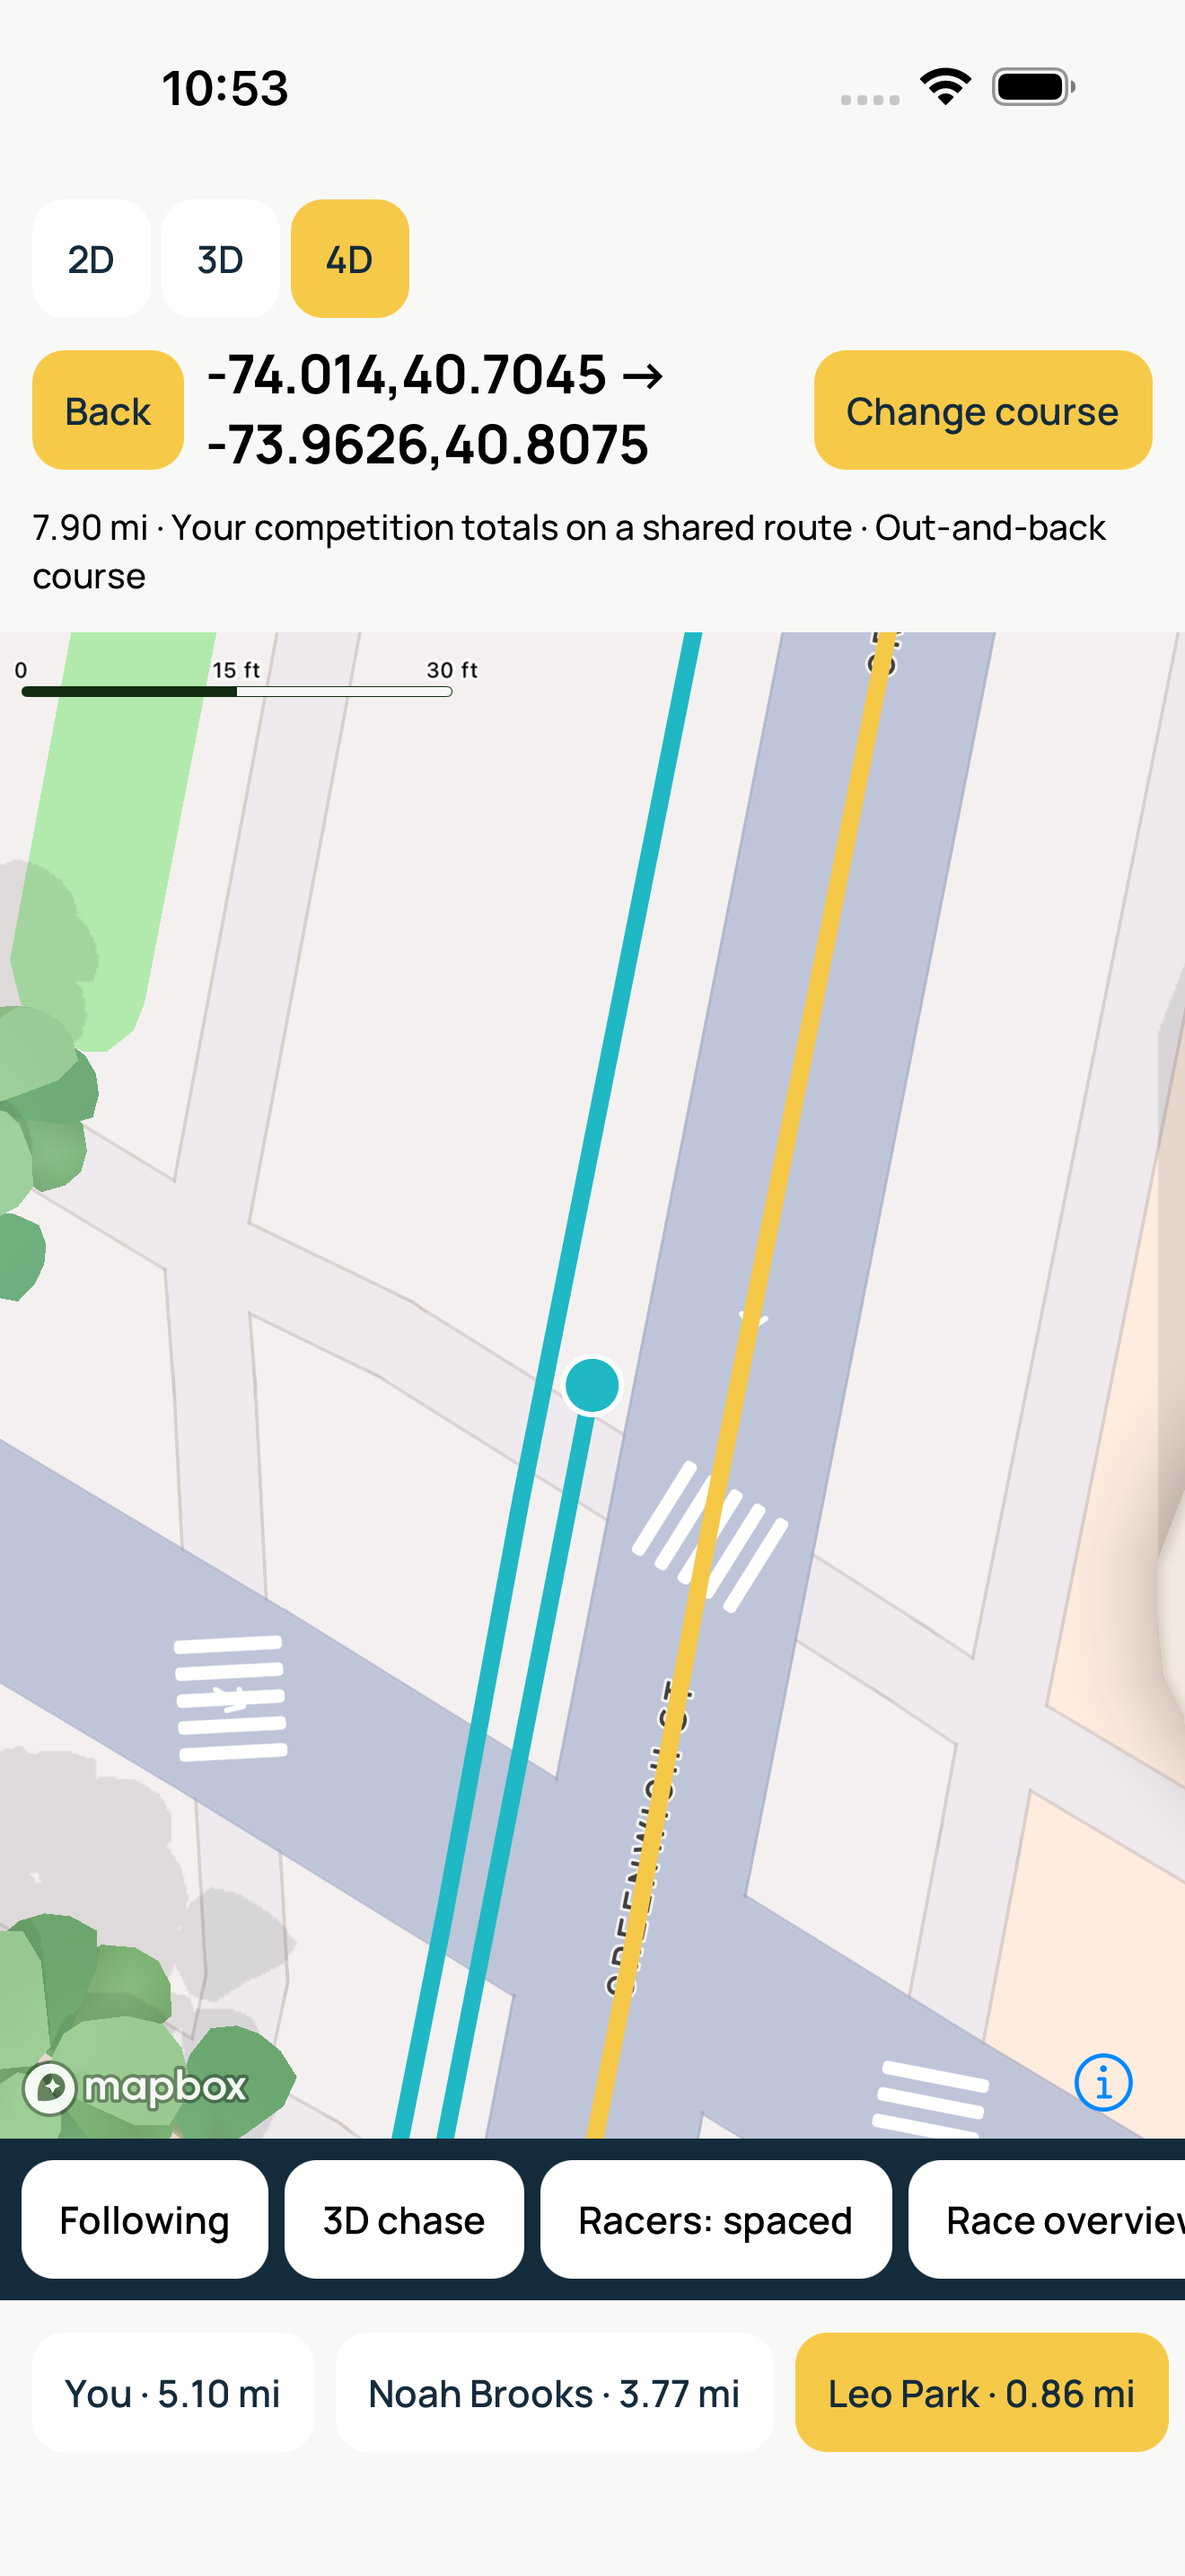
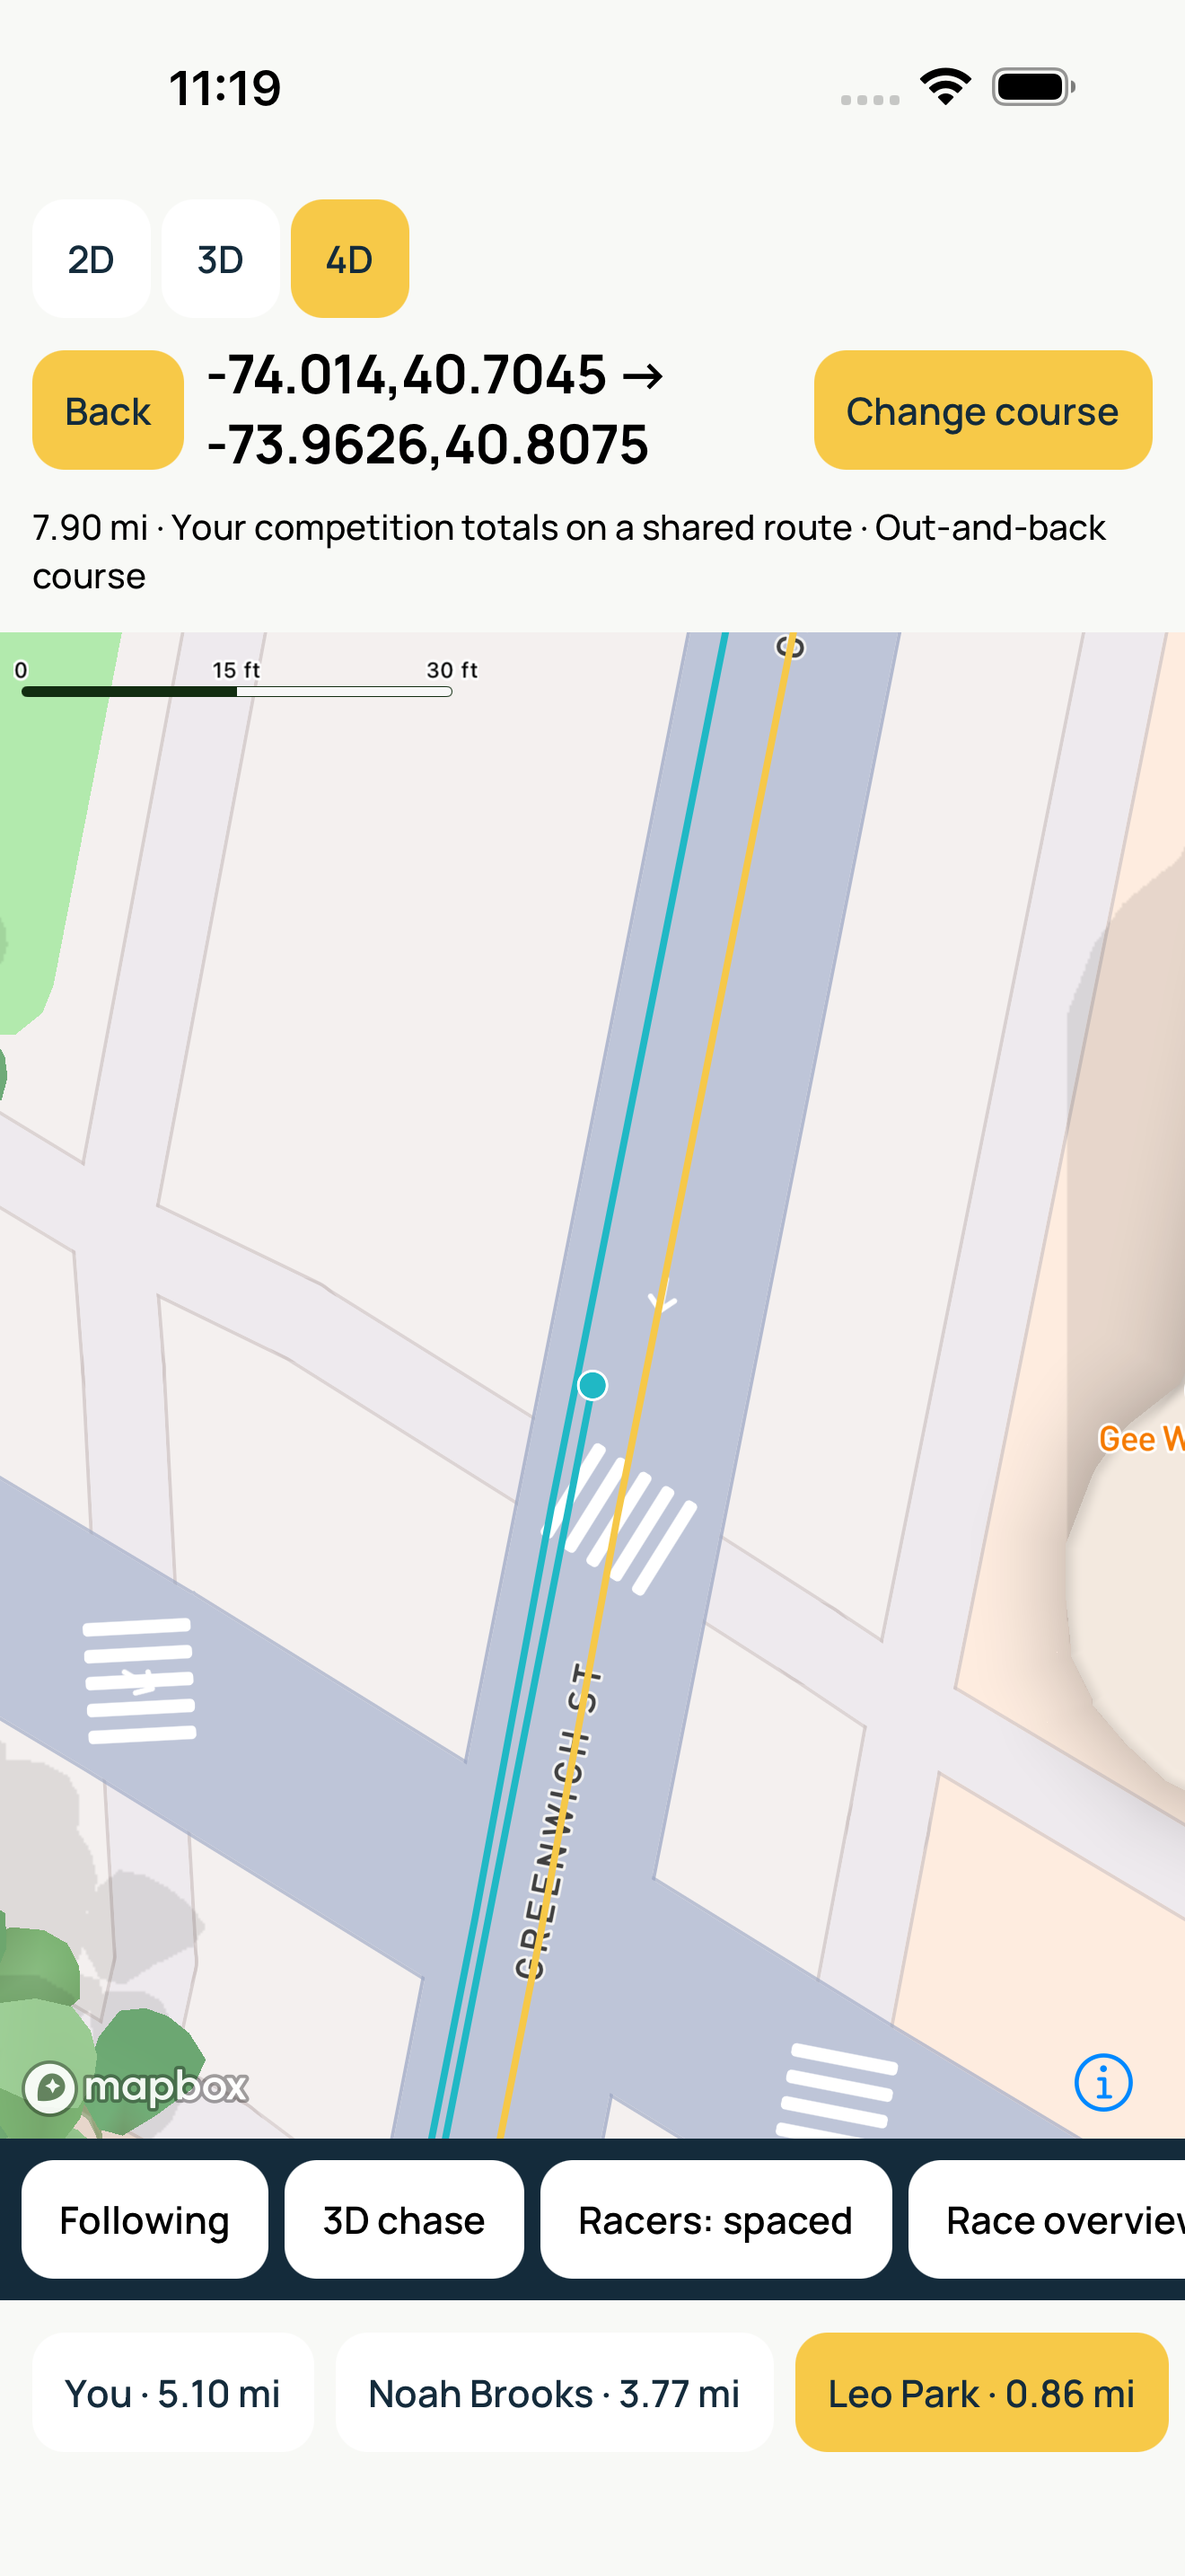
Tighten geographic racer lanes to fit narrow roads

diff --git a/apps/web/src/features/course/course-map.tsx b/apps/web/src/features/course/course-map.tsx
@@ -2,7 +2,7 @@
 import { useEffect, useMemo, useRef, useState } from "react";
 import mapboxgl from "mapbox-gl";
 import "mapbox-gl/dist/mapbox-gl.css";
-import { createCourseCamera, raceCourseScene, type RaceCourse, type ArenaSceneLane, type CourseCameraPose } from "@fitness-battle/shared";
+import { createCourseCamera, raceCourseScene, RACE_LANE_SPACING_METRES, RACE_TRAIL_WIDTH_METRES, type RaceCourse, type ArenaSceneLane, type CourseCameraPose } from "@fitness-battle/shared";
 import { webEnv } from "@/lib/env";
 
 export default function CourseMap({ course, lanes, unit, selectedId, focusRequest, onSelect }: {
@@ -11,7 +11,7 @@ export default function CourseMap({ course, lanes, unit, selectedId, focusReques
   const container = useRef<HTMLDivElement>(null), map = useRef<mapboxgl.Map | null>(null);
   const [ready, setReady] = useState(false), [error, setError] = useState(""), [flat, setFlat] = useState(false), [following, setFollowing] = useState(true);
   const [spaced, setSpaced] = useState(true);
-  const scene = useMemo(() => raceCourseScene(course, lanes, unit, selectedId, spaced ? 1 : 0), [course, lanes, unit, selectedId, spaced]);
+  const scene = useMemo(() => raceCourseScene(course, lanes, unit, selectedId, spaced ? RACE_LANE_SPACING_METRES : 0), [course, lanes, unit, selectedId, spaced]);
   const latest = useRef({ scene, onSelect }); latest.current = { scene, onSelect };
   const reduced = useRef(false);
   const camera = useRef<ReturnType<typeof createCourseCamera> | null>(null);
@@ -38,9 +38,9 @@ export default function CourseMap({ course, lanes, unit, selectedId, focusReques
       const s = latest.current.scene;
       instance.addSource("completed", { type: "geojson", data: s.trails });
       instance.addSource("athletes", { type: "geojson", data: s.markers });
-      const trailWidth = .35 / (78271.516964 * Math.cos(course.coordinates[0][1] * Math.PI / 180));
+      const trailWidth = RACE_TRAIL_WIDTH_METRES / (78271.516964 * Math.cos(course.coordinates[0][1] * Math.PI / 180));
       instance.addLayer({ id: "completed-line", type: "line", source: "completed", slot: "middle", layout: { "line-cap": "round", "line-join": "round", "line-sort-key": ["get", "priority"] }, paint: { "line-color": ["get", "color"], "line-width": ["interpolate", ["exponential", 2], ["zoom"], 0, .75, 16, Math.max(.75, trailWidth * 2 ** 16), 22, trailWidth * 2 ** 22] } });
-      instance.addLayer({ id: "athlete-dots", type: "circle", source: "athletes", slot: "top", paint: { "circle-radius": ["case", ["get", "selected"], 10, 7], "circle-color": ["case", ["get", "you"], "#f7c948", "#20b9c6"], "circle-stroke-color": "#ffffff", "circle-stroke-width": 2 } });
+      instance.addLayer({ id: "athlete-dots", type: "circle", source: "athletes", slot: "top", paint: { "circle-radius": ["case", ["get", "selected"], 5, 3], "circle-color": ["case", ["get", "you"], "#f7c948", "#20b9c6"], "circle-stroke-color": "#ffffff", "circle-stroke-width": 1 } });
       instance.on("click", "athlete-dots", event => { const id = event.features?.[0]?.properties?.id; if (typeof id === "string") latest.current.onSelect(id); });
       setReady(true); setError("");
     });

diff --git a/apps/mobile/src/ui/course-map.tsx b/apps/mobile/src/ui/course-map.tsx
@@ -1,7 +1,7 @@
 import { useEffect, useMemo, useRef, useState, type ComponentRef } from "react";
 import { View, Text, Pressable, ScrollView } from "react-native";
 import Mapbox, { MapView, Camera, ShapeSource, LineLayer, CircleLayer, CameraGestureObserver } from "@rnmapbox/maps";
-import { createCourseCamera, raceCourseScene, type RaceCourse, type ArenaSceneLane, type CourseCameraPose } from "@fitness-battle/shared";
+import { createCourseCamera, raceCourseScene, RACE_LANE_SPACING_METRES, RACE_TRAIL_WIDTH_METRES, type RaceCourse, type ArenaSceneLane, type CourseCameraPose } from "@fitness-battle/shared";
 import { mobileEnv } from "../lib/env";
 import { textStyle } from "./section";
 import { useReducedMotion } from "./use-reduced-motion";
@@ -13,8 +13,8 @@ export default function CourseMap({ course, lanes, unit, selectedId, focusReques
   const ref = useRef<ComponentRef<typeof Camera>>(null);
   const reduced = useReducedMotion();
   const [spaced, setSpaced] = useState(true);
-  const scene = useMemo(() => raceCourseScene(course, lanes, unit, selectedId, spaced ? 1 : 0), [course, lanes, unit, selectedId, spaced]);
-  const trailWidth = .35 / (78271.516964 * Math.cos(course.coordinates[0][1] * Math.PI / 180));
+  const scene = useMemo(() => raceCourseScene(course, lanes, unit, selectedId, spaced ? RACE_LANE_SPACING_METRES : 0), [course, lanes, unit, selectedId, spaced]);
+  const trailWidth = RACE_TRAIL_WIDTH_METRES / (78271.516964 * Math.cos(course.coordinates[0][1] * Math.PI / 180));
   const pose = useRef<CourseCameraPose>({ center: scene.selected?.coordinate ?? course.coordinates[0], zoom: 16, pitch: 60, bearing: 0 });
   const [ready, setReady] = useState(false), [error, setError] = useState(""), [flat, setFlat] = useState(false);
   const [following, setFollowing] = useState(true);
@@ -50,7 +50,7 @@ export default function CourseMap({ course, lanes, unit, selectedId, focusReques
       }} />
       <ShapeSource id="completed" shape={scene.trails}><LineLayer id="completed-line" slot="middle" style={{ lineColor: ["get", "color"], lineSortKey: ["get", "priority"], lineWidth: ["interpolate", ["exponential", 2], ["zoom"], 0, .75, 16, Math.max(.75, trailWidth * 2 ** 16), 22, trailWidth * 2 ** 22], lineCap: "round", lineJoin: "round" }} /></ShapeSource>
       <ShapeSource id="athletes" shape={scene.markers} onPress={event => { const id = event.features[0]?.properties?.id; if (typeof id === "string") onSelect(id); }}>
-        <CircleLayer id="athlete-dots" slot="top" style={{ circleRadius: ["case", ["get", "selected"], 10, 7], circleColor: ["case", ["get", "you"], "#f7c948", "#20b9c6"], circleStrokeColor: "#ffffff", circleStrokeWidth: 2 }} />
+        <CircleLayer id="athlete-dots" slot="top" style={{ circleRadius: ["case", ["get", "selected"], 5, 3], circleColor: ["case", ["get", "you"], "#f7c948", "#20b9c6"], circleStrokeColor: "#ffffff", circleStrokeWidth: 1 }} />
       </ShapeSource>
     </MapView>
     {error ? <Text accessibilityRole="alert" style={{ ...textStyle("body"), padding: 12, backgroundColor: "#ffffff" }}>{error}</Text> : null}

diff --git a/packages/shared/src/course-scene.test.ts b/packages/shared/src/course-scene.test.ts
@@ -21,14 +21,14 @@ it("gives each real racer a covered trail ending at its dot, without exposing fu
   expect(lanes[0].value).toBe(.5);
 });
 
-it("centers the viewer on the road and fits ten stable individual lanes across nine metres", () => {
+it("centers the viewer on the road and fits ten stable individual lanes across 3.15 metres", () => {
   const course = createRaceCourse("Street", [[0, 0], [.01, 0]]);
   const lanes = Array.from({ length: 10 }, (_, i) => ({ id: `racer-${i}`, name: `Racer ${i}`, initials: "R", you: i === 7, value: .5 }));
   const scene = raceCourseScene(course, lanes, "km", "racer-0");
   expect(scene.markers.features.find(f => f.properties.you)?.geometry.coordinates).toEqual(raceCoursePosition(course, 500).coordinate);
   const markers = [...scene.markers.features].sort((a, b) => a.geometry.coordinates[1] - b.geometry.coordinates[1]);
-  for (let i = 1; i < markers.length; i++) expect(distance(markers[i - 1].geometry.coordinates, markers[i].geometry.coordinates, { units: "meters" })).toBeCloseTo(1, 3);
-  expect(distance(markers[0].geometry.coordinates, markers.at(-1)!.geometry.coordinates, { units: "meters" })).toBeCloseTo(9, 3);
+  for (let i = 1; i < markers.length; i++) expect(distance(markers[i - 1].geometry.coordinates, markers[i].geometry.coordinates, { units: "meters" })).toBeCloseTo(.35, 3);
+  expect(distance(markers[0].geometry.coordinates, markers.at(-1)!.geometry.coordinates, { units: "meters" })).toBeCloseTo(3.15, 3);
   expect(scene.trails.features).toHaveLength(10);
   const selected = raceCourseScene(course, lanes, "km", "racer-9");
   expect(selected.trails).toBe(scene.trails);
@@ -70,7 +70,7 @@ it("keeps each racer's trail aligned through bends, turnarounds, and the date li
         expect(outbound.trails.features[i].geometry.coordinates.at(-1)).toEqual(outbound.markers.features[i].geometry.coordinates);
         expect(inbound.trails.features[i].geometry.coordinates.at(-1)).toEqual(inbound.markers.features[i].geometry.coordinates);
       }
-      expect(outbound.selected?.coordinate).toEqual(raceCourseRacerPosition(course, metres, -1).coordinate);
+      expect(outbound.selected?.coordinate).toEqual(raceCourseRacerPosition(course, metres, -.35).coordinate);
     }
   }
 });

diff --git a/packages/shared/src/course-scene.ts b/packages/shared/src/course-scene.ts
@@ -2,6 +2,9 @@ import { raceCourseRacerPosition, raceCourseTrail, raceEffortMetres, type RaceCo
 import type { ArenaSceneLane } from "./arena-view";
 import type { LngLat } from "./routeGeoUtils";
 
+export const RACE_LANE_SPACING_METRES = .35;
+export const RACE_TRAIL_WIDTH_METRES = .12;
+
 function buildCourseGeometry(course: RaceCourse, lanes: readonly ArenaSceneLane[], unit: string, spacing: number, anchorId: string) {
   const roster = lanes.filter(lane => !lane.ghost);
   const ids = roster.map(lane => lane.id).sort();
@@ -32,7 +35,7 @@ function buildCourseGeometry(course: RaceCourse, lanes: readonly ArenaSceneLane[
 }
 // Selection only updates dots and the camera; it must not resend every long trail to Mapbox.
 const geometryCache = new WeakMap<RaceCourse, { lanes: readonly ArenaSceneLane[]; unit: string; spacing: number; anchor: string; geometry: ReturnType<typeof buildCourseGeometry> }>();
-export function raceCourseScene(course: RaceCourse, lanes: readonly ArenaSceneLane[], unit: string, selectedId: string, spacingMetres = 1) {
+export function raceCourseScene(course: RaceCourse, lanes: readonly ArenaSceneLane[], unit: string, selectedId: string, spacingMetres = RACE_LANE_SPACING_METRES) {
   const anchor = lanes.find(lane => lane.you && !lane.ghost)?.id ?? "";
   let cached = geometryCache.get(course);
   if (!cached || cached.lanes !== lanes || cached.unit !== unit || cached.spacing !== spacingMetres || cached.anchor !== anchor) {

diff --git a/docs/reviews/geographic-course/README.md b/docs/reviews/geographic-course/README.md
@@ -25,14 +25,14 @@ Zero activity draws a dot at the start but no trail. **Race overview** fits only
 earned trails and current dots; it never frames the unreached route.
 
 The viewer's own lane stays centered on the route. Peers alternate left/right in
-stable ID order with one metre between adjacent lanes (ten racers span nine
+stable ID order with 35 cm between adjacent lanes (ten lane centers span 3.15
 metres). Selecting a peer moves the camera without rearranging lanes. **Racers:
 spaced / Racers: together** permits comparison. Each dot and its individual trail
 interpolate the same offset polyline, including bends and return legs, so the dot
 always sits at its trail's endpoint. Offset vertices are computed lazily and
 cached; selection reuses the trail source instead of resending all geometry.
 
-Trails are thin opaque lines: approximately 35 cm near the course's origin when
+Trails are thin opaque lines: approximately 12 cm near the course's origin when
 zoomed in, with a 0.75 px visibility floor when zoomed out. This is illustrative
 spacing rather than road-width queries or collision simulation. Narrow roads and
 zoomed-out marker overlap remain possible. After a racer covers the whole course,
@@ -224,7 +224,7 @@ not rerun for these JavaScript-only changes.
 
 ### Individual trail discovery follow-up
 
-The shared model tests cover viewer centering, ten one-metre lanes, no future
+The shared model tests cover viewer centering, ten tightly packed lanes, no future
 geometry, no trail at zero activity, discovered-only bounds, shared marker/trail
 endpoints through bends/date-line crossings/return trips, and bounded geometry
 across thousands of trips. Adapter checks verify that no full-course source is
@@ -248,3 +248,23 @@ and course loading plus the close-up trail scenario were rechecked (two cases,
 zero failures, 31.4 seconds). The final 20 focused shared/native/web tests,
 workspace typechecks, UI contract, and web production build pass. Device frame
 rate/heat/battery remain unmeasured.
+
+
+### Tighter road footprint
+
+The spacing follow-up compresses lane centers from 1 m to 0.35 m apart, reducing
+ten racers from a 9 m span to 3.15 m. Trail width drops from approximately 35 cm
+to 12 cm at close zoom, retaining the 0.75 px visibility floor. Selected/peer dot
+radii shrink from 10/7 px to 5/3 px with a 1 px outline. Both platforms consume
+the same shared spacing/width constants; viewer centering and trail alignment
+stay unchanged. This reduces sidewalk spillover without road-boundary queries.
+The tighter layout trades some zoomed-out separation for a smaller footprint;
+GPX routes still provide no road-width guarantee.
+
+
+The compact layout passes the 16 shared course checks, both map-adapter checks,
+and workspace typechecks. The iOS course-load and close-up scenarios pass again
+(two cases, zero failures, 28.7 seconds), using the same road as the earlier
+screenshots. The individual-trail screenshots above now show the tighter layout;
+the visible racers stay on this road. Other narrow/off-center routes remain an
+approximation, rather than a guarantee of road containment.

diff --git a/docs/design-guide.md b/docs/design-guide.md
@@ -367,9 +367,9 @@ on native and web, including fullscreen controls. Distance fields offer all thre
 points fields retain 2D / 3D. 4D opens the dedicated course screen, preserves the
 chosen course when switching views, and has the same selector for returning.
 The route ahead stays invisible. Each athlete reveals an individual narrow,
-opaque trail that ends exactly at their dot; no activity means no trail. The
+opaque trail (about 12 cm wide at close zoom) that ends exactly at their dot; no activity means no trail. The
 viewer stays centered on the underlying route, with peers alternating left/right
-in stable ID order at one-metre spacing. Selection moves the camera without
+in stable ID order at 35 cm spacing (ten lane centers span 3.15 m). Selection moves the camera without
 rearranging lanes. The spacing toggle compares spaced/together layouts. Camera
 follow uses the same displayed position as the trail. Race overview frames only
 covered ground. Return trips preserve the full earned trail with geometry
